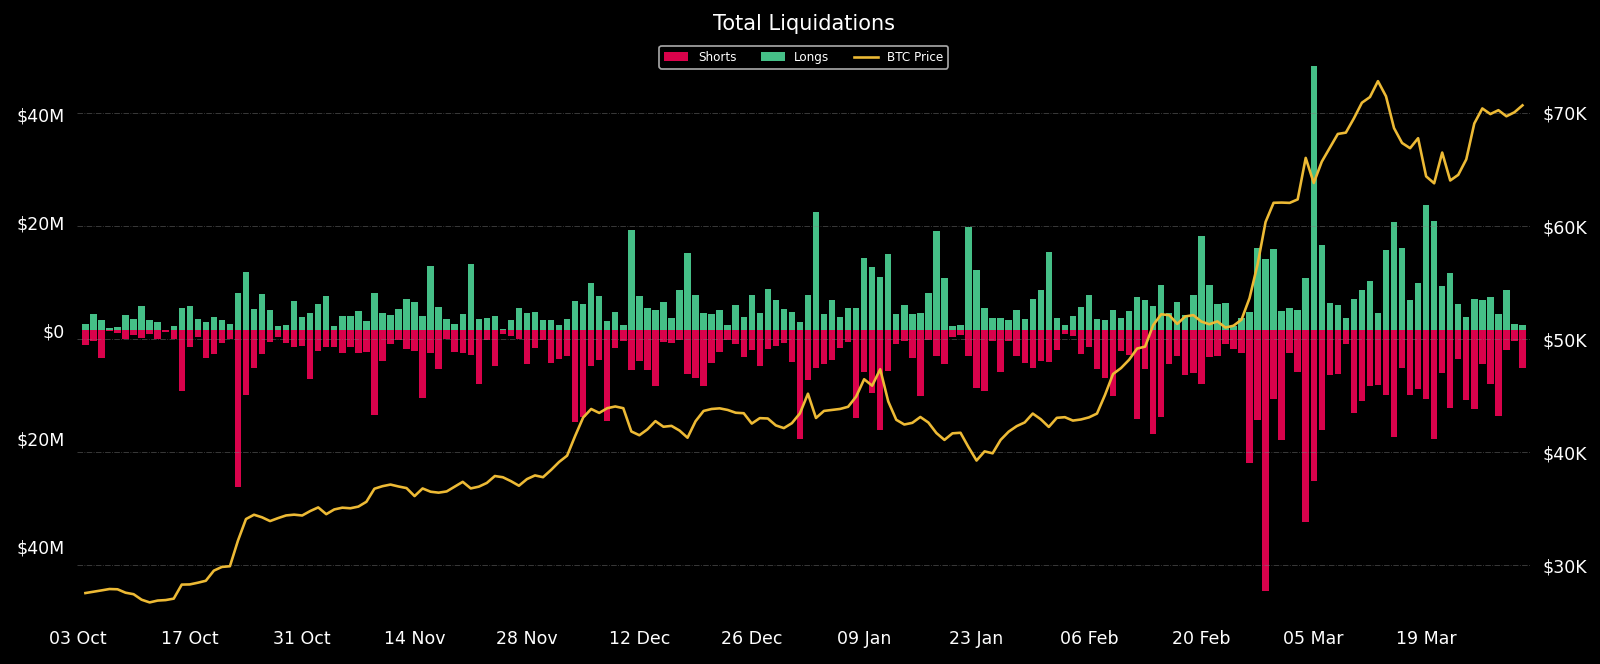
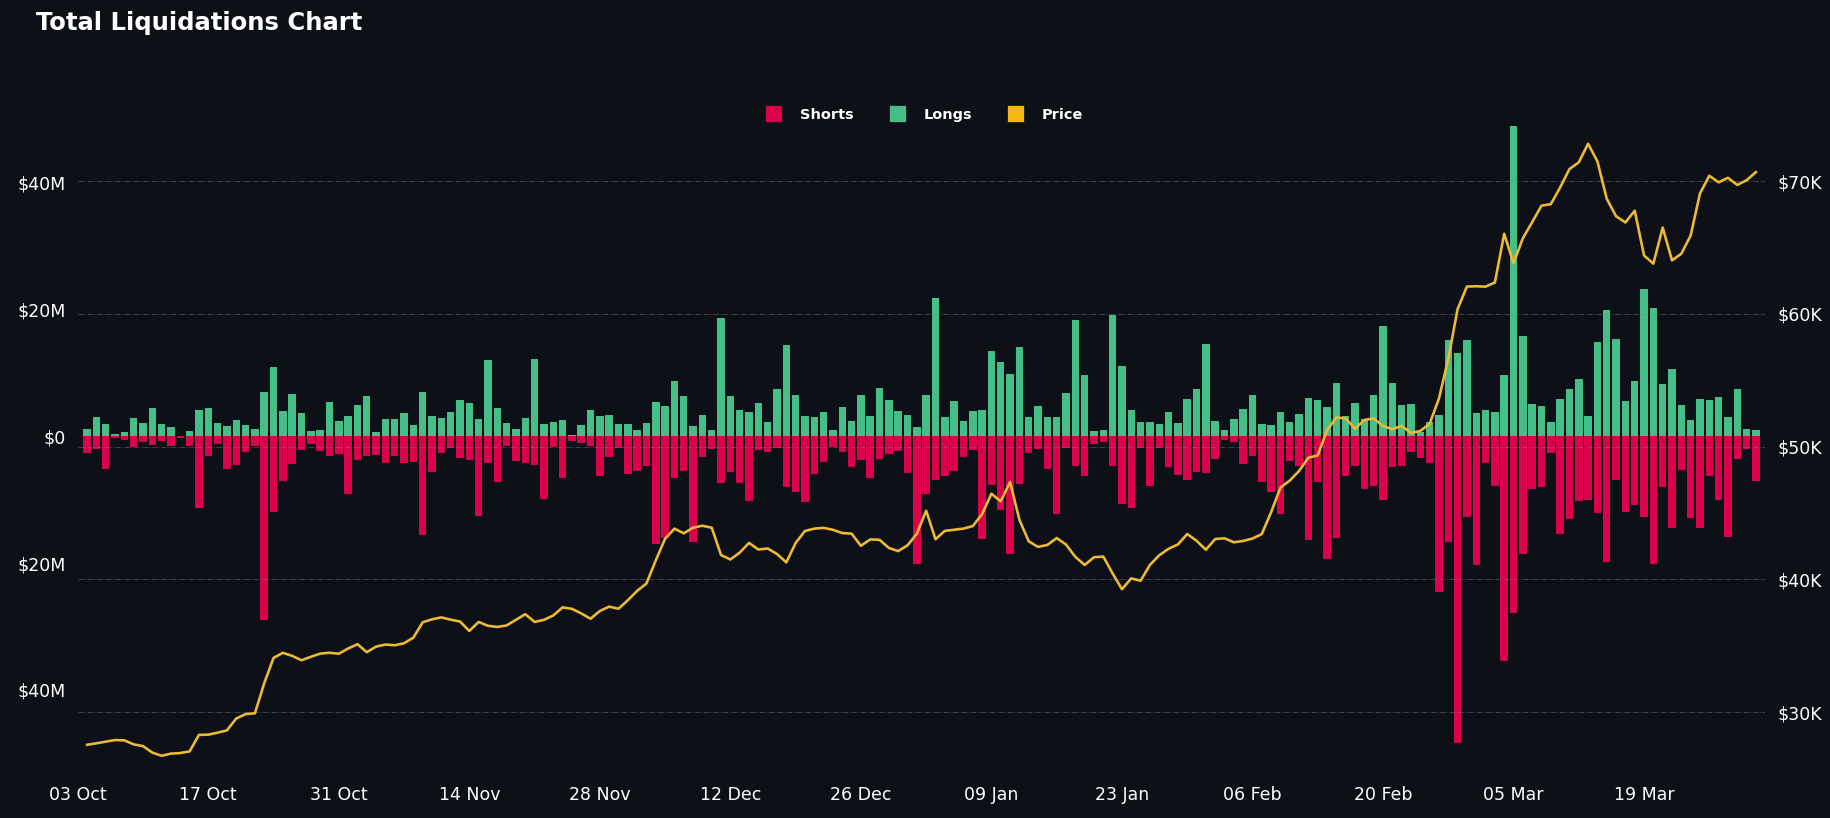
Improved plot looks
close #1

diff --git a/src/plot.py b/src/plot.py
@@ -9,6 +9,10 @@ from matplotlib import ticker
 from data import get_new_data
 from summary import summarize_liquidations
 
+BACKGROUND_COLOR = "#0d1117"
+FIGURE_SIZE = (15, 7)
+COLORS_LABELS = {"#d9024b": "Shorts", "#45bf87": "Longs", "#f0b90b": "Price"}
+
 
 def human_format(number: float, absolute: bool = False, decimals: int = 0) -> str:
     """
@@ -56,6 +60,42 @@ def human_format(number: float, absolute: bool = False, decimals: int = 0) -> st
     return f"{rounded_number}{units[magnitude]}"
 
 
+def add_legend(ax):
+    # Create custom legend handles with square markers, including BTC price
+    legend_handles = [
+        plt.Line2D(
+            [0],
+            [0],
+            marker="s",
+            color=BACKGROUND_COLOR,
+            markerfacecolor=color,
+            markersize=10,
+            label=label,
+        )
+        for color, label in zip(
+            list(COLORS_LABELS.keys()), list(COLORS_LABELS.values())
+        )
+    ]
+
+    # Add legend
+    legend = ax.legend(
+        handles=legend_handles,
+        loc="upper center",
+        bbox_to_anchor=(0.5, 1.0),
+        ncol=len(legend_handles),
+        frameon=False,
+        fontsize="small",
+        labelcolor="white",
+    )
+
+    # Make legend text bold
+    for text in legend.get_texts():
+        text.set_fontweight("bold")
+
+    # Adjust layout to reduce empty space around the plot
+    plt.subplots_adjust(left=0.05, right=0.95, top=0.875, bottom=0.1)
+
+
 def liquidations_plot(df):
     """
     Copy chart like https://www.coinglass.com/LiquidationData
@@ -71,10 +111,11 @@ def liquidations_plot(df):
     df_without_price = df.drop("price", axis=1)
     df_without_price["Shorts"] = df_without_price["Shorts"] * -1
 
-    plt.style.use("dark_background")
-
     # This plot has 2 axes
     fig, ax1 = plt.subplots()
+    fig.patch.set_facecolor(BACKGROUND_COLOR)
+    ax1.set_facecolor(BACKGROUND_COLOR)
+
     ax2 = ax1.twinx()
 
     plt.gca().xaxis.set_major_formatter(mdates.DateFormatter("%d %b"))
@@ -98,24 +139,14 @@ def liquidations_plot(df):
         ticker.FuncFormatter(lambda x, _: f"${human_format(x, absolute=True)}")
     )
 
-    ax1.set_title("Total Liquidations")
-
     # Set price axis
     ax2.plot(df_price.index, df_price, color="#edba35", label="BTC Price")
     ax2.set_xlim([df_price.index[0], df_price.index[-1]])
     ax2.set_ylim(bottom=df_price.min().values * 0.95, top=df_price.max().values * 1.05)
     ax2.get_yaxis().set_major_formatter(lambda x, _: f"${human_format(x)}")
 
-    # Add combined legend
-    lines, labels = ax1.get_legend_handles_labels()
-    lines2, labels2 = ax2.get_legend_handles_labels()
-    ax2.legend(
-        lines + lines2,
-        labels + labels2,
-        loc="upper center",
-        fontsize="x-small",
-        ncol=3,
-    )
+    # Add combined legend using the custom add_legend function
+    add_legend(ax2)
 
     # Add gridlines
     plt.grid(axis="y", color="grey", linestyle="-.", linewidth=0.5, alpha=0.5)
@@ -125,13 +156,13 @@ def liquidations_plot(df):
     ax1.spines["bottom"].set_visible(False)
     ax1.spines["right"].set_visible(False)
     ax1.spines["left"].set_visible(False)
-    ax1.tick_params(left=False, bottom=False, right=False)
+    ax1.tick_params(left=False, bottom=False, right=False, colors="white")
 
     ax2.spines["top"].set_visible(False)
     ax2.spines["bottom"].set_visible(False)
     ax2.spines["right"].set_visible(False)
     ax2.spines["left"].set_visible(False)
-    ax2.tick_params(left=False, bottom=False, right=False)
+    ax2.tick_params(left=False, bottom=False, right=False, colors="white")
 
     # Fixes first and last bar not showing
     ax1.set_xlim(
@@ -144,7 +175,20 @@ def liquidations_plot(df):
     )
 
     # Set correct size
-    fig.set_size_inches(15, 6)
+    fig.set_size_inches(FIGURE_SIZE)
+
+    # Add the title in the top left corner
+    plt.text(
+        -0.025,
+        1.125,
+        "Total Liquidations Chart",
+        transform=ax1.transAxes,
+        fontsize=14,
+        verticalalignment="top",
+        horizontalalignment="left",
+        color="white",
+        weight="bold",
+    )
 
     plt.show()
 
